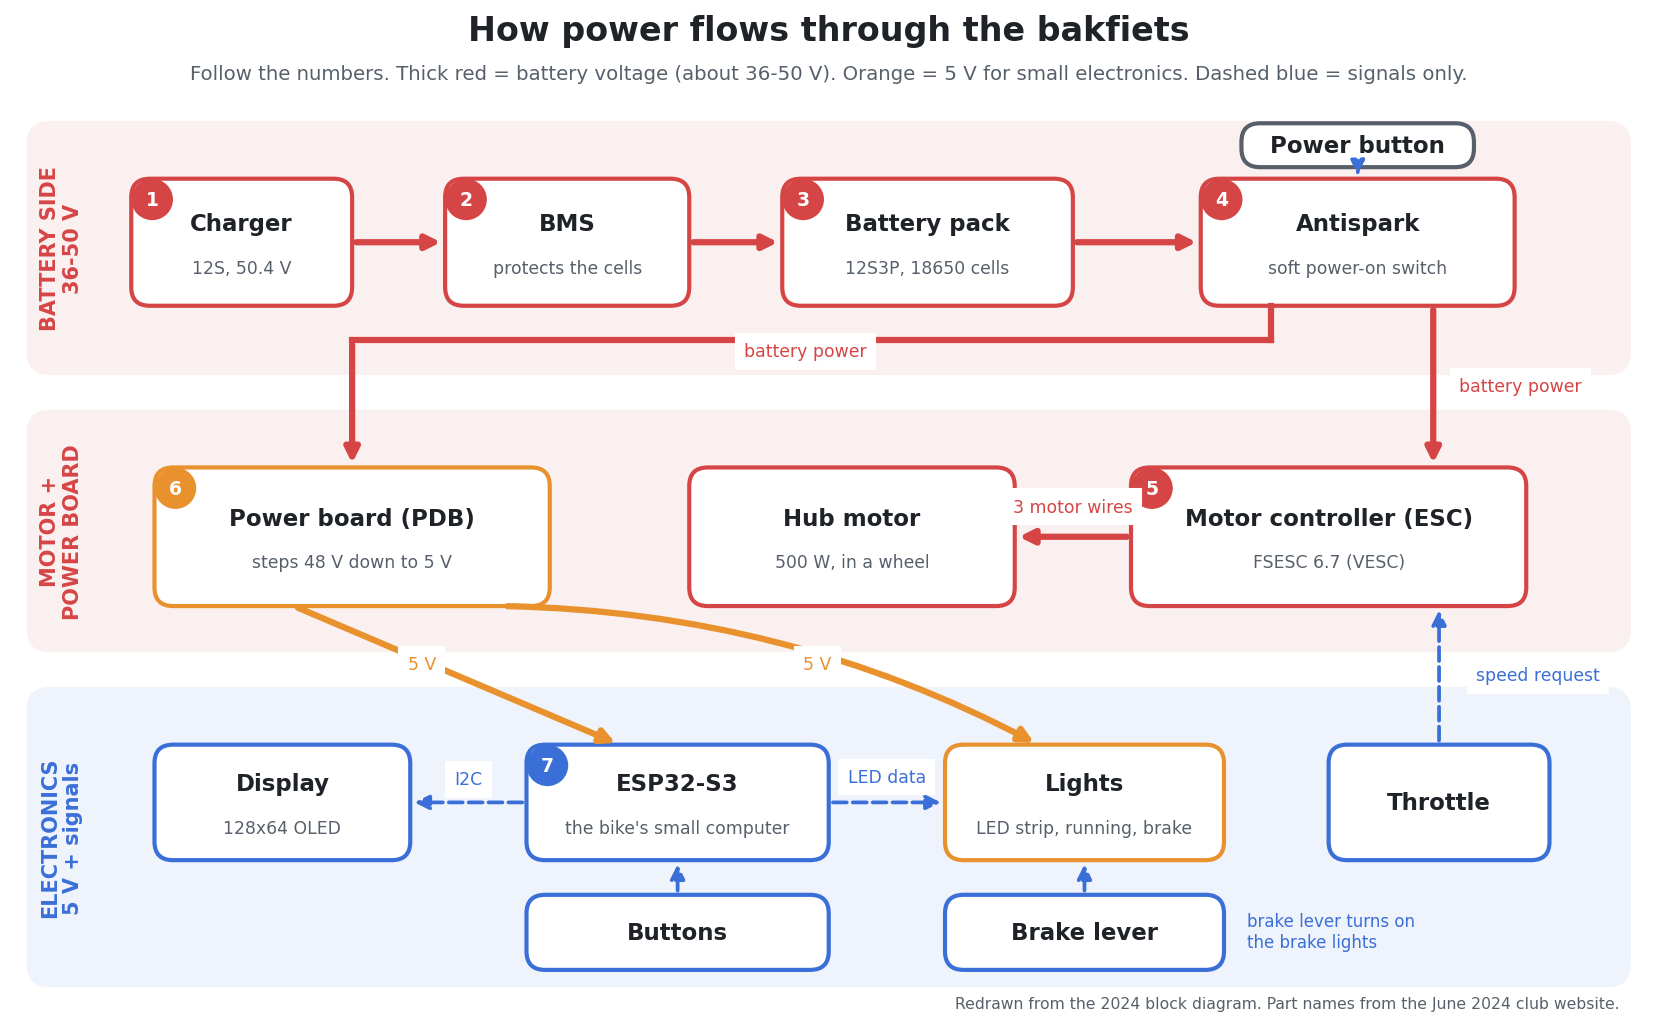
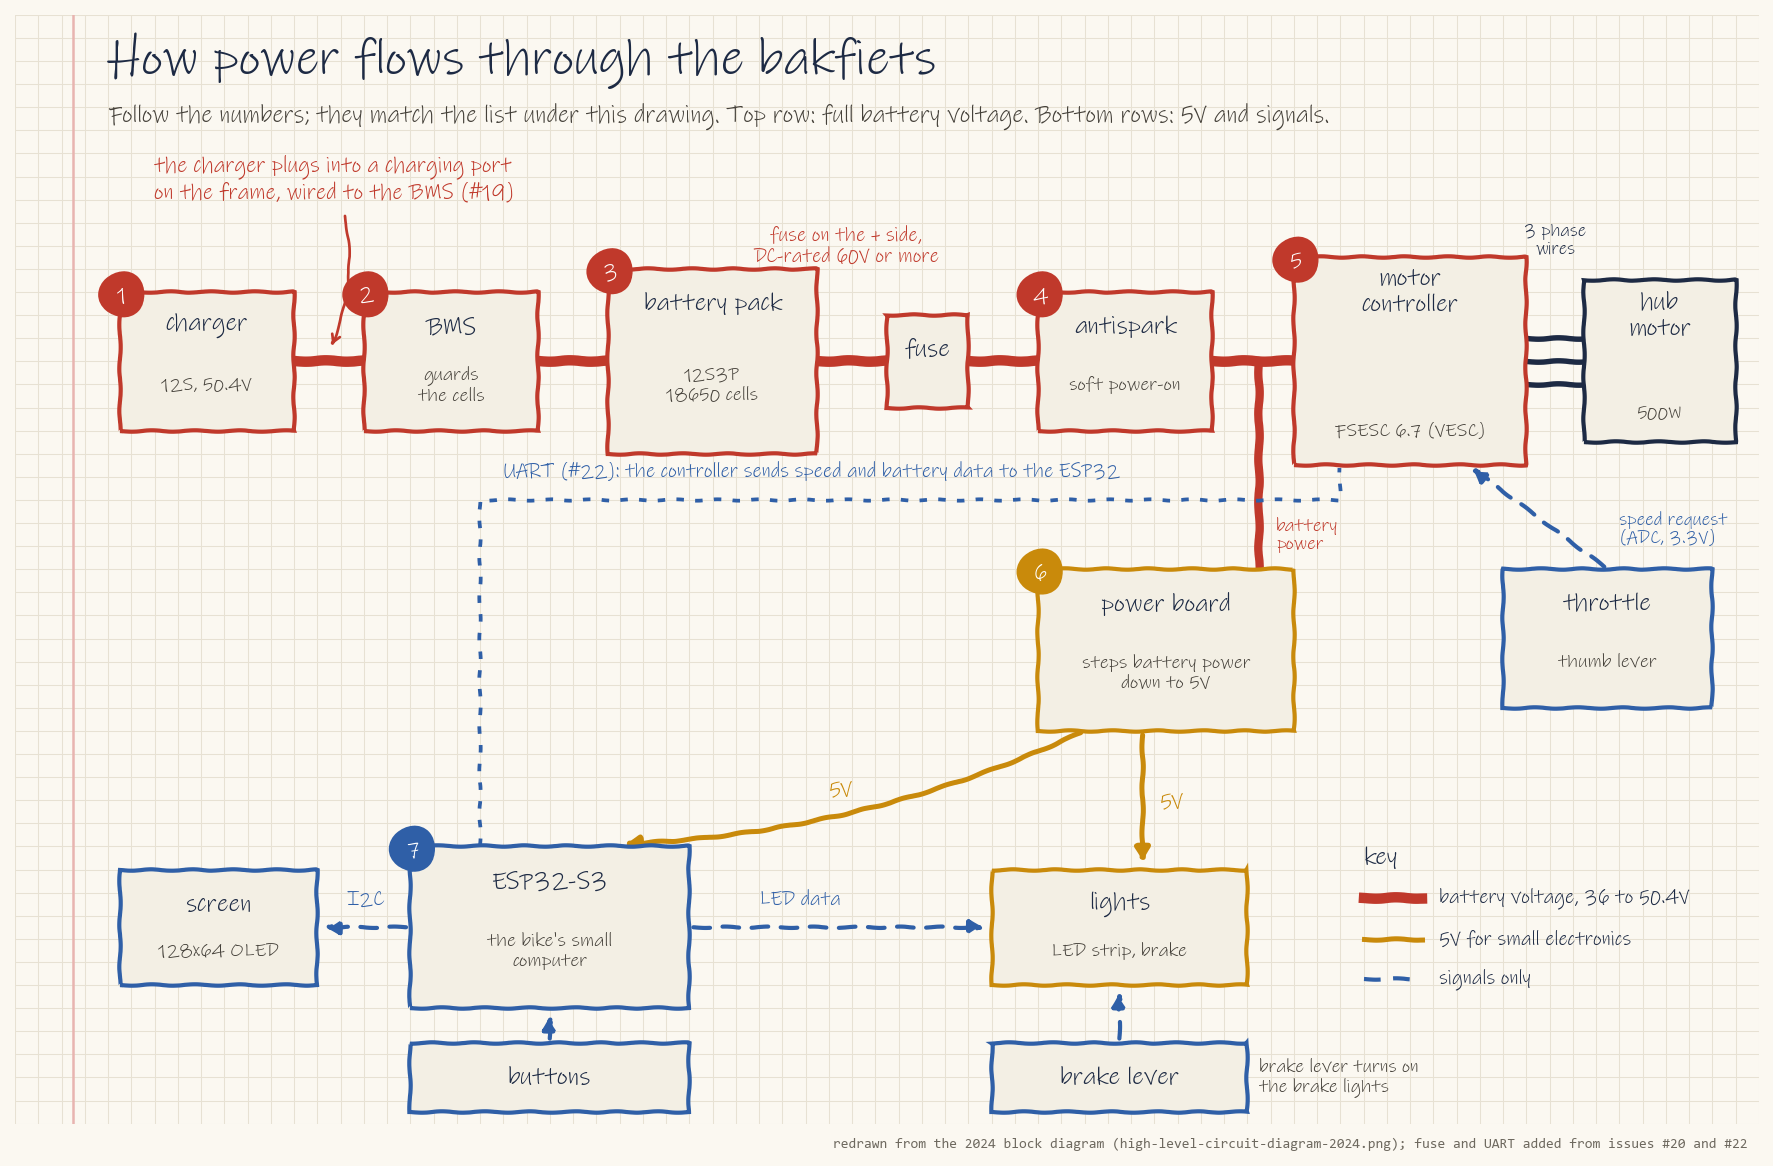
Redraw power flow diagram in notebook style with fuse and UART

Changed region(s): [[0.0, 0.0, 0.9849, 0.9981]]

diff --git a/electrical/diagrams/bakfiets-power-flow.py b/electrical/diagrams/bakfiets-power-flow.py
@@ -1,58 +1,78 @@
-import matplotlib; matplotlib.use('Agg')
-import matplotlib.pyplot as plt
-from matplotlib.patches import FancyBboxPatch, FancyArrowPatch
-HV='#d64545'; LV='#e8912d'; SIG='#3a6fd8'; INK='#1f2328'; SUB='#57606a'
-fig,ax=plt.subplots(figsize=(14,8.6),dpi=150); ax.set_xlim(0,140); ax.set_ylim(0,86); ax.axis('off')
-fig.patch.set_facecolor('white')
-def lane(y,h,title,col):
-    ax.add_patch(FancyBboxPatch((1,y),138,h,boxstyle='round,pad=0,rounding_size=2',fc=col,ec='none',alpha=0.08))
-    ax.text(3,y+h-2.2,title,fontsize=11,weight='bold',color=col,va='top')
-def box(x,y,w,h,title,sub,col,num=None):
-    ax.add_patch(FancyBboxPatch((x,y),w,h,boxstyle='round,pad=0,rounding_size=1.6',fc='white',ec=col,lw=2))
-    ax.text(x+w/2,y+h/2+(1.6 if sub else 0),title,ha='center',va='center',fontsize=11,weight='bold',color=INK)
-    if sub: ax.text(x+w/2,y+h/2-2.2,sub,ha='center',va='center',fontsize=8.3,color=SUB)
-    if num:
-        ax.add_patch(plt.Circle((x+1.8,y+h-1.8),1.7,color=col)); ax.text(x+1.8,y+h-1.8,str(num),ha='center',va='center',color='white',fontsize=9,weight='bold')
-    return (x,y,w,h)
-def arrow(p,q,col,lw=3,ls='-',label=None,lx=0,ly=0,rad=0):
-    ax.add_patch(FancyArrowPatch(p,q,arrowstyle='-|>',mutation_scale=14,color=col,lw=lw,linestyle=ls,connectionstyle=f'arc3,rad={rad}'))
-    if label: ax.text((p[0]+q[0])/2+lx,(p[1]+q[1])/2+ly,label,fontsize=8.3,color=col,ha='center',va='center',backgroundcolor='white')
-ax.text(70,84,'How power flows through the bakfiets',ha='center',fontsize=16,weight='bold',color=INK)
-ax.text(70,80.6,'Follow the numbers. Thick red = battery voltage (about 36-50 V). Orange = 5 V for small electronics. Dashed blue = signals only.',ha='center',fontsize=9.5,color=SUB)
-def vlane(y,h,title,col):
-    ax.add_patch(FancyBboxPatch((1,y),138,h,boxstyle='round,pad=0,rounding_size=2',fc=col,ec='none',alpha=0.08))
-    ax.text(4,y+h/2,title,fontsize=10,weight='bold',color=col,rotation=90,ha='center',va='center')
-vlane(55,22,'BATTERY SIDE\n36-50 V',HV)
-vlane(31,21,'MOTOR +\nPOWER BOARD',HV)
-vlane(2,26,'ELECTRONICS\n5 V + signals',SIG)
-c=box(10,61,19,11,'Charger','12S, 50.4 V',HV,1)
-b=box(37,61,21,11,'BMS','protects the cells',HV,2)
-p=box(66,61,25,11,'Battery pack','12S3P, 18650 cells',HV,3)
-a=box(102,61,27,11,'Antispark','soft power-on switch',HV,4)
-pb=box(105.5,73,20,3.8,'Power button','',SUB)
-arrow((29,66.5),(37,66.5),HV); arrow((58,66.5),(66,66.5),HV); arrow((91,66.5),(102,66.5),HV)
-arrow((115.5,73),(115.5,72),SIG,lw=1.6,ls='--')
-e=box(96,35,34,12,'Motor controller (ESC)','FSESC 6.7 (VESC)',HV,5)
-m=box(58,35,28,12,'Hub motor','500 W, in a wheel',HV)
-d=box(12,35,34,12,'Power board (PDB)','steps 48 V down to 5 V',LV,6)
-arrow((122,61),(122,47),HV,label='battery power',lx=7.5)
-arrow((96,41),(86,41),HV,label='3 motor wires',ly=2.6)
-ax.plot([108,29],[61,57.5][0:1]*2,color=HV,lw=0)
-ax.plot([108,108],[61,58],color=HV,lw=3); ax.plot([108,29],[58,58],color=HV,lw=3); arrow((29,58),(29,47),HV)
-ax.text(68,56.6,'battery power',fontsize=8.3,color=HV,ha='center',backgroundcolor='white')
-dsp=box(12,13,22,10,'Display','128x64 OLED',SIG)
-esp=box(44,13,26,10,'ESP32-S3',"the bike's small computer",SIG,7)
-led=box(80,13,24,10,'Lights','LED strip, running, brake',LV)
-thr=box(113,13,19,10,'Throttle','',SIG)
-btn=box(44,3.5,26,6.5,'Buttons','',SIG)
-brk=box(80,3.5,24,6.5,'Brake lever','',SIG)
-arrow((24,35),(52,23),LV,label='5 V',lx=-3,ly=1)
-arrow((42,35),(88,23),LV,label='5 V',lx=4,ly=1,rad=-0.12)
-arrow((44,18),(34,18),SIG,lw=1.8,ls='--',label='I2C',ly=2)
-arrow((70,18),(80,18),SIG,lw=1.8,ls='--',label='LED data',ly=2.2)
-arrow((57,10),(57,13),SIG,lw=1.8,ls='--')
-arrow((92,10),(92,13),SIG,lw=1.8,ls='--')
-ax.text(106,6.8,'brake lever turns on\nthe brake lights',fontsize=8,color=SIG,ha='left',va='center')
-arrow((122.5,23),(122.5,35),SIG,lw=1.8,ls='--',label='speed request',lx=8.5)
-ax.text(138,0.2,'Redrawn from the 2024 block diagram. Part names from the June 2024 club website.',fontsize=7.5,color=SUB,ha='right')
-plt.savefig('bakfiets-power-flow.png',bbox_inches='tight',facecolor='white'); print('ok')
+import sys, os
+HERE = os.path.dirname(os.path.abspath(__file__))
+sys.path.insert(0, os.path.join(HERE, '..', '..', 'docs', 'diagrams'))
+from notebook import *
+from matplotlib.patches import Rectangle, Circle, FancyArrowPatch
+
+fig, ax = page(150, 96, (15, 9.6))
+note(ax, 8, 92, 'How power flows through the bakfiets', size=24, weight='bold')
+note(ax, 8, 87.2, 'Follow the numbers; they match the list under this drawing. Top row: full battery voltage. Bottom rows: 5V and signals.',
+     size=11.5, color=PENCIL)
+
+def block(x, y, w, h, title, sub, col, n=None, fc='#f3efe4'):
+    ax.add_patch(Rectangle((x, y), w, h, fc=fc, ec=col, lw=2, zorder=2))
+    note(ax, x + w / 2, y + h - 3, title, size=12, weight='bold', ha='center', zorder=3)
+    if sub: note(ax, x + w / 2, y + h / 2 - 2, sub, size=9.2, color=PENCIL, ha='center', linespacing=1.15, zorder=3)
+    if n:
+        ax.add_patch(Circle((x + 0.2, y + h - 0.2), 1.9, fc=col, ec=col, zorder=4))
+        note(ax, x + 0.2, y + h - 0.3, str(n), size=10.5, color='white', weight='bold', ha='center', zorder=5)
+def thick(xs, ys, c=RED, lw=5): ax.plot(xs, ys, color=c, lw=lw, solid_capstyle='round', zorder=1)
+def arrow(p, q, c, ls='-', lw=2, rad=0):
+    ax.add_patch(FancyArrowPatch(p, q, arrowstyle='-|>', mutation_scale=14, color=c, lw=lw, ls=ls,
+                                 connectionstyle=f'arc3,rad={rad}', zorder=1))
+
+# band labels
+
+# row 1: battery side
+Y = 66
+block(9, 60, 15, 12, 'charger', '12S, 50.4V', RED, 1)
+block(30, 60, 15, 12, 'BMS', 'guards\nthe cells', RED, 2)
+block(51, 58, 18, 16, 'battery pack', '12S3P\n18650 cells', RED, 3)
+block(75, 62, 7, 8, 'fuse', '', RED)
+block(88, 60, 15, 12, 'antispark', 'soft power-on', RED, 4)
+block(110, 57, 20, 18, 'motor\ncontroller', '', RED, 5)
+note(ax, 120, 60, 'FSESC 6.7 (VESC)', size=9.2, color=PENCIL, ha='center', zorder=3)
+block(135, 59, 13, 14, 'hub\nmotor', '', INK)
+note(ax, 141.5, 61.5, '500W', size=9.2, color=PENCIL, ha='center', zorder=3)
+thick([24, 30], [Y, Y]); thick([45, 51], [Y, Y]); thick([69, 75], [Y, Y]); thick([82, 88], [Y, Y]); thick([103, 110], [Y, Y])
+for dy in (-2, 0, 2): thick([130, 135], [Y + dy, Y + dy], INK, lw=2.6)
+note(ax, 132.5, 76.5, '3 phase\nwires', size=8.5, color=INK, ha='center', linespacing=1)
+note(ax, 71.5, 76, 'fuse on the + side,\nDC-rated 60V or more', size=9.5, color=RED, ha='center', linespacing=1.1)
+point(ax, (12, 80), (27, 66.8), 'the charger plugs into a charging port\non the frame, wired to the BMS (#19)', color=RED, rad=-0.2)
+
+# row 2: power board
+block(88, 34, 22, 14, 'power board', 'steps battery power\ndown to 5V', GOLD, 6)
+thick([107, 107], [Y, 48], RED, lw=4)
+note(ax, 108.5, 51, 'battery'+chr(10)+'power', size=9, color=RED, linespacing=1)
+block(128, 36, 18, 12, 'throttle', 'thumb lever', BLUE)
+arrow((137, 48), (125, 57), BLUE, ls=(0, (4, 3)))
+note(ax, 138, 51.5, 'speed request\n(ADC, 3.3V)', size=8.8, color=BLUE, linespacing=1.05)
+
+# row 3: electronics
+block(34, 10, 24, 14, 'ESP32-S3', "the bike's small\ncomputer", BLUE, 7)
+block(9, 12, 17, 10, 'screen', '128x64 OLED', BLUE)
+block(84, 12, 22, 10, 'lights', 'LED strip, brake', GOLD)
+block(34, 1, 24, 6, 'buttons', '', BLUE)
+block(84, 1, 22, 6, 'brake lever', '', BLUE)
+arrow((92, 34), (52, 24.2), GOLD, lw=2.4, rad=-0.1)
+arrow((97, 34), (97, 22.2), GOLD, lw=2.4)
+note(ax, 70, 29, '5V', size=10.5, color=GOLD, weight='bold')
+note(ax, 98.5, 28, '5V', size=10.5, color=GOLD, weight='bold')
+arrow((34, 17), (26.2, 17), BLUE, ls=(0, (4, 3)))
+note(ax, 28.5, 19.4, 'I2C', size=9.5, color=BLUE)
+arrow((58, 17), (83.8, 17), BLUE, ls=(0, (4, 3)))
+note(ax, 64, 19.4, 'LED data', size=9.5, color=BLUE)
+arrow((46, 7), (46, 9.8), BLUE, ls=(0, (4, 3)))
+arrow((95, 7), (95, 11.8), BLUE, ls=(0, (4, 3)))
+note(ax, 107, 4, 'brake lever turns on\nthe brake lights', size=9, color=PENCIL, linespacing=1.1)
+ax.plot([40, 40, 114, 114], [24, 54, 54, 56.8], color=BLUE, lw=1.8, ls=(0, (2, 3)), zorder=1)
+note(ax, 42, 56.5, 'UART (#22): the controller sends speed and battery data to the ESP32', size=9.5, color=BLUE)
+
+# legend
+lx, ly = 116, 23
+note(ax, lx, ly, 'key', size=12, weight='bold')
+ax.plot([lx, lx + 5], [ly - 3.5, ly - 3.5], color=RED, lw=5); note(ax, lx + 6.5, ly - 3.5, 'battery voltage, 36 to 50.4V', size=9.5)
+ax.plot([lx, lx + 5], [ly - 7, ly - 7], color=GOLD, lw=2.4); note(ax, lx + 6.5, ly - 7, '5V for small electronics', size=9.5)
+ax.plot([lx, lx + 5], [ly - 10.5, ly - 10.5], color=BLUE, lw=2, ls=(0, (4, 3))); note(ax, lx + 6.5, ly - 10.5, 'signals only', size=9.5)
+mono(ax, 149, -1.8, 'redrawn from the 2024 block diagram (high-level-circuit-diagram-2024.png); fuse and UART added from issues #20 and #22', size=6.8, color='#6f6a60', ha='right')
+save(fig, os.path.join(HERE, 'bakfiets-power-flow.png'))
